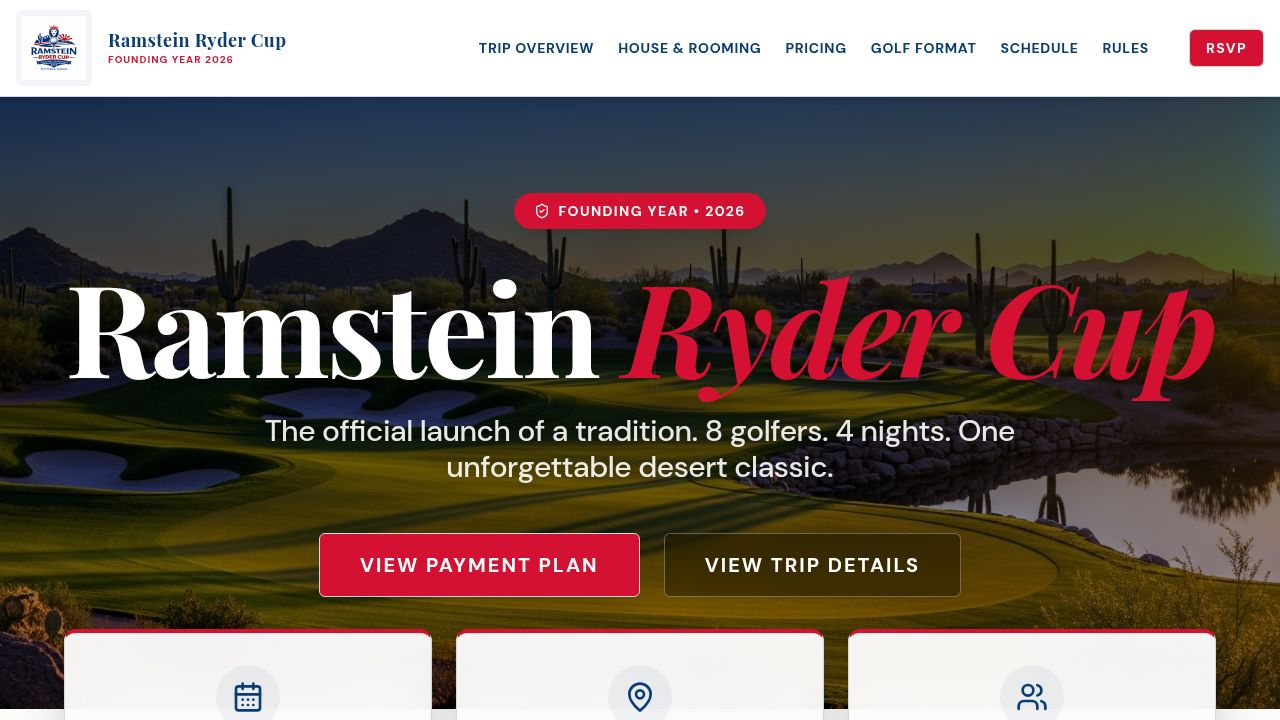
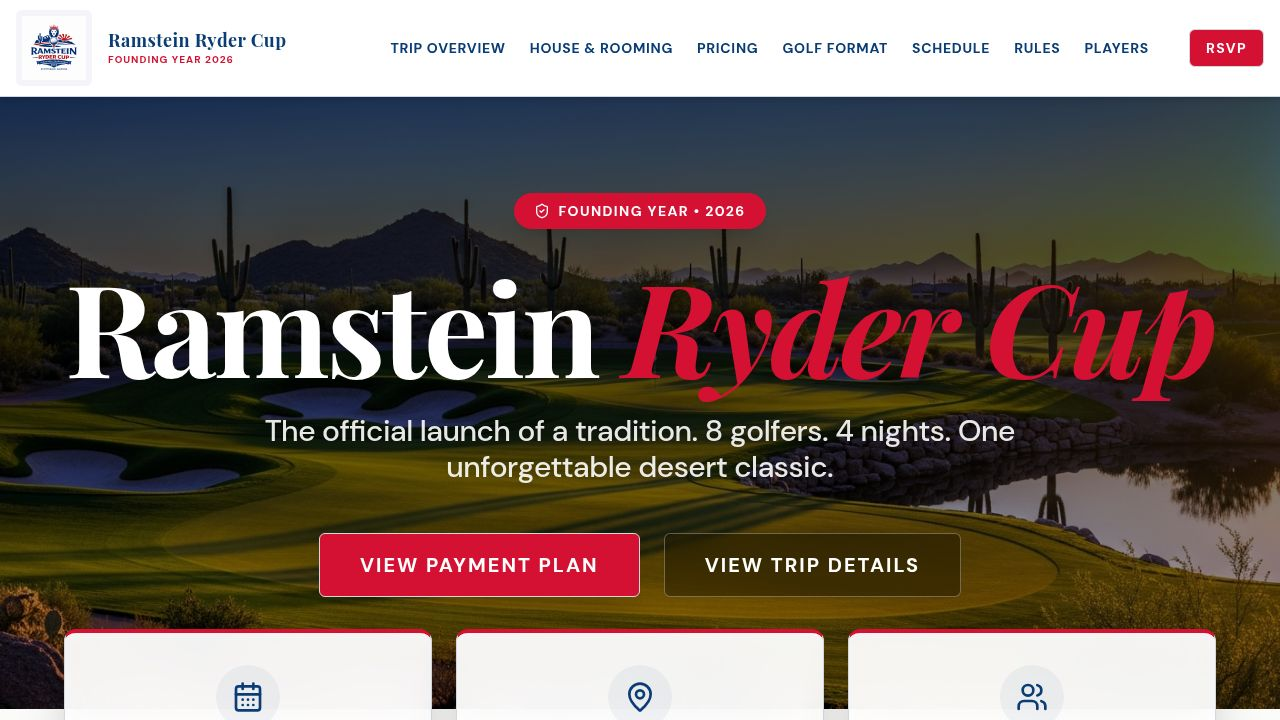
Add a dedicated Players page and homepage preview section
Implement a new Players page with tiered player sections and a homepage preview linking to it.

Replit-Commit-Author: Agent
Replit-Commit-Session-Id: 4898a535-15ff-43db-b92c-3e0c6fa323a7
Replit-Commit-Checkpoint-Type: full_checkpoint
Replit-Commit-Event-Id: 79b97c79-85f7-4d74-9fbf-07b85250c3ff
Replit-Commit-Screenshot-Url: https://storage.googleapis.com/screenshot-production-us-central1/28b633f6-6784-475f-bf79-e20f7095d278/4898a535-15ff-43db-b92c-3e0c6fa323a7/8UOhPYK
Replit-Helium-Checkpoint-Created: true

Changed region(s): [[0.3125, 0.0611, 0.9062, 0.0917]]

diff --git a/client/src/pages/players.tsx b/client/src/pages/players.tsx
@@ -1,0 +1,98 @@
+import { Card, CardContent } from "@/components/ui/card";
+
+const PLAYER_TIERS = [
+  {
+    tier: "A",
+    heading: "A Players",
+    description: "Top-line anchors expected to shape pairings and set the competitive tone.",
+    players: ["Jason Dousharm", "Mike Parsons"],
+  },
+  {
+    tier: "B",
+    heading: "B Players",
+    description: "Strong second-wave players who add balance, pressure, and matchup flexibility.",
+    players: ["Mike Gibbons", "Robby Fuller"],
+  },
+  {
+    tier: "C",
+    heading: "C Players",
+    description: "Reliable middle-tier players who bring depth to the field and key pairing value.",
+    players: ["Darrel Johnson", "Darren Johnson"],
+  },
+  {
+    tier: "D",
+    heading: "D Players",
+    description: "Depth pieces with upset potential and an important role in the overall tournament mix.",
+    players: ["John Gregg", "Alan Parsons"],
+  },
+];
+
+export default function Players() {
+  return (
+    <div className="min-h-screen bg-background">
+      <section className="border-b border-border/60 bg-[linear-gradient(180deg,rgba(255,255,255,1),rgba(250,249,246,0.92))]">
+        <div className="container mx-auto max-w-6xl px-4 py-20 md:py-24">
+          <div className="mx-auto max-w-4xl text-center">
+            <p className="text-sm font-bold uppercase tracking-[0.24em] text-secondary" data-testid="text-players-kicker">
+              Tournament Field
+            </p>
+            <h1 className="mt-5 font-serif text-5xl font-bold text-primary md:text-6xl" data-testid="text-players-title">
+              Players
+            </h1>
+            <p className="mx-auto mt-6 max-w-3xl text-xl leading-relaxed text-foreground/70" data-testid="text-players-intro">
+              Meet the field for the inaugural Ramstein Ryder Cup. Player tiers help shape the competition and pairings for the event.
+            </p>
+          </div>
+        </div>
+      </section>
+
+      <section className="container mx-auto max-w-6xl px-4 py-16 md:py-20">
+        <div className="space-y-10 md:space-y-12">
+          {PLAYER_TIERS.map((group) => (
+            <div
+              key={group.tier}
+              className="rounded-[2rem] border border-border/70 bg-white shadow-[0_18px_60px_rgba(15,23,42,0.06)] overflow-hidden"
+              data-testid={`tier-section-${group.tier.toLowerCase()}`}
+            >
+              <div className="border-b border-border/60 bg-[linear-gradient(180deg,rgba(13,61,110,0.03),rgba(255,255,255,1))] px-6 py-6 md:px-8">
+                <div className="flex flex-col gap-4 md:flex-row md:items-end md:justify-between">
+                  <div>
+                    <div className="inline-flex items-center rounded-full bg-secondary/10 px-4 py-2 text-xs font-bold uppercase tracking-[0.2em] text-secondary" data-testid={`text-tier-label-${group.tier.toLowerCase()}`}>
+                      Tier {group.tier}
+                    </div>
+                    <h2 className="mt-4 font-serif text-3xl font-bold text-primary md:text-4xl" data-testid={`text-tier-heading-${group.tier.toLowerCase()}`}>
+                      {group.heading}
+                    </h2>
+                  </div>
+                  <p className="max-w-2xl text-base leading-relaxed text-foreground/60 md:text-right" data-testid={`text-tier-description-${group.tier.toLowerCase()}`}>
+                    {group.description}
+                  </p>
+                </div>
+              </div>
+
+              <div className="grid grid-cols-1 gap-5 p-6 md:grid-cols-2 md:p-8">
+                {group.players.map((player) => (
+                  <Card
+                    key={player}
+                    className="border border-border/70 bg-[#FCFCFB] shadow-sm transition-all duration-300 hover:-translate-y-1 hover:shadow-lg"
+                    data-testid={`card-player-${player.toLowerCase().replace(/[^a-z0-9]+/g, "-")}`}
+                  >
+                    <CardContent className="flex items-center justify-between gap-4 p-6">
+                      <div>
+                        <p className="text-xs font-bold uppercase tracking-[0.2em] text-secondary">Tier {group.tier}</p>
+                        <h3 className="mt-3 font-serif text-2xl font-bold text-primary">{player}</h3>
+                      </div>
+                      <div className="flex h-14 w-14 shrink-0 items-center justify-center rounded-2xl bg-primary text-lg font-bold text-white">
+                        {group.tier}
+                      </div>
+                    </CardContent>
+                  </Card>
+                ))}
+              </div>
+            </div>
+          ))}
+        </div>
+      </section>
+    </div>
+  );
+}

diff --git a/client/src/pages/home.tsx b/client/src/pages/home.tsx
@@ -4,6 +4,13 @@ import { Card, CardContent } from "@/components/ui/card";
 import { CalendarDays, MapPin, Users, ChevronRight, ShieldCheck, Home as HomeIcon, Wallet, Trophy } from "lucide-react";
 import heroImage from "@/assets/images/hero-desert.png";
 
+const FEATURED_PLAYERS = [
+  { name: "Jason Dousharm", tier: "A" },
+  { name: "Mike Gibbons", tier: "B" },
+  { name: "Darrel Johnson", tier: "C" },
+  { name: "John Gregg", tier: "D" },
+];
+
 export default function Home() {
   return (
     <div className="min-h-screen bg-background">
@@ -99,6 +106,45 @@ export default function Home() {
           </div>
           <div className="mt-12 inline-block border-b-2 border-secondary pb-1">
             <p className="font-bold text-primary uppercase tracking-widest text-lg">— Jason Dousharm</p>
+          </div>
+        </div>
+      </section>
+
+      <section className="py-24 bg-muted/30 border-y border-border/60">
+        <div className="container px-4 max-w-7xl mx-auto">
+          <div className="flex flex-col gap-6 md:flex-row md:items-end md:justify-between mb-14">
+            <div className="max-w-2xl">
+              <p className="text-sm font-bold uppercase tracking-[0.24em] text-secondary mb-4" data-testid="text-home-players-kicker">Tournament Field</p>
+              <h2 className="font-serif text-5xl font-bold text-primary mb-4">Meet the Field</h2>
+              <p className="text-muted-foreground text-xl leading-relaxed" data-testid="text-home-players-description">A first look at the inaugural player tiers shaping the Ramstein Ryder Cup competition.</p>
+            </div>
+            <Button asChild variant="outline" className="h-14 px-8 text-base font-bold uppercase tracking-widest border-primary/15 text-primary hover:bg-primary/5 w-full md:w-auto" data-testid="button-view-all-players-top">
+              <Link href="/players">View All Players</Link>
+            </Button>
+          </div>
+
+          <div className="grid grid-cols-1 sm:grid-cols-2 xl:grid-cols-4 gap-6">
+            {FEATURED_PLAYERS.map((player) => (
+              <Card key={player.name} className="border border-border/70 bg-white shadow-lg shadow-primary/5 rounded-[1.75rem] overflow-hidden hover:-translate-y-1 hover:shadow-2xl transition-all duration-300" data-testid={`card-home-player-${player.name.toLowerCase().replace(/[^a-z0-9]+/g, "-")}`}>
+                <CardContent className="p-7">
+                  <div className="flex items-center justify-between gap-4">
+                    <div>
+                      <p className="text-xs font-bold uppercase tracking-[0.2em] text-secondary">Tier {player.tier}</p>
+                      <h3 className="mt-4 font-serif text-2xl font-bold text-primary leading-tight">{player.name}</h3>
+                    </div>
+                    <div className="flex h-12 w-12 shrink-0 items-center justify-center rounded-2xl bg-primary text-base font-bold text-white">
+                      {player.tier}
+                    </div>
+                  </div>
+                </CardContent>
+              </Card>
+            ))}
+          </div>
+
+          <div className="mt-10 flex justify-center">
+            <Button asChild className="h-14 px-10 text-base font-bold uppercase tracking-widest bg-primary hover:bg-primary/90 shadow-xl" data-testid="button-view-all-players-bottom">
+              <Link href="/players">View All Players</Link>
+            </Button>
           </div>
         </div>
       </section>

diff --git a/client/src/App.tsx b/client/src/App.tsx
@@ -16,6 +16,7 @@ import PricingBudget from "@/pages/pricing-budget";
 import GolfFormat from "@/pages/golf-format";
 import Schedule from "@/pages/schedule";
 import Rules from "@/pages/rules";
+import Players from "@/pages/players";
 import Rsvp from "@/pages/rsvp";
 
 function ScrollToTop() {
@@ -42,6 +43,7 @@ function Router() {
           <Route path="/golf" component={GolfFormat} />
           <Route path="/schedule" component={Schedule} />
           <Route path="/rules" component={Rules} />
+          <Route path="/players" component={Players} />
           <Route path="/rsvp" component={Rsvp} />
           <Route component={NotFound} />
         </Switch>

diff --git a/client/src/components/layout/Navbar.tsx b/client/src/components/layout/Navbar.tsx
@@ -21,6 +21,7 @@ const routes = [
   { name: "Golf Format", path: "/golf" },
   { name: "Schedule", path: "/schedule" },
   { name: "Rules", path: "/rules" },
+  { name: "Players", path: "/players" },
 ];
 
 export function Navbar() {
